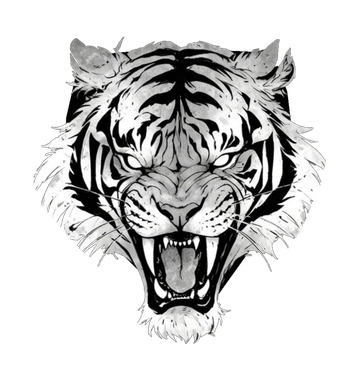
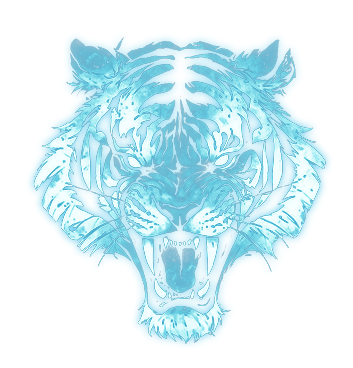
vfx-lab: Hổ Khiếu — đầu hổ đổi style năng lượng xanh lam phát sáng (cộng sáng) cho đồng bộ sóng xung kích
Claude-Session: https://claude.ai/code/session_014A94BHnyL4tu48AS77QbVM

diff --git a/src/vfx/skillFx.ts b/src/vfx/skillFx.ts
@@ -620,9 +620,9 @@ const hoKhieu: Fx = (s, aw) => {
   const R = aw ? 190 : 125;
   // 1) hư ảnh đầu hổ hiện trên đầu nhân vật: bung lên, rung khi gầm, rồi tan
   const top = pt(h.x, h.y - 105);                                  // cao hẳn trên đầu, không che nhân vật
-  const tg = sc.add.image(top.x, top.y + 12, TIGER_HEAD).setDepth(15).setAlpha(0).setScale(0.12);
+  const tg = sc.add.image(top.x, top.y + 12, TIGER_HEAD).setBlendMode(Phaser.BlendModes.ADD).setDepth(15).setAlpha(0).setScale(0.12);
   const S0 = aw ? 0.36 : 0.3;
-  sc.tweens.add({ targets: tg, alpha: 0.6, scale: S0, y: top.y, duration: 220, ease: 'Back.easeOut' });
+  sc.tweens.add({ targets: tg, alpha: 0.85, scale: S0, y: top.y, duration: 220, ease: 'Back.easeOut' });
   k.later(240, () => {
     sc.tweens.add({ targets: tg, scale: S0 * 1.12, duration: 70, yoyo: true, repeat: 2, ease: 'Sine.easeInOut' });   // gầm
     sc.tweens.add({ targets: tg, angle: { from: -3, to: 3 }, duration: 45, yoyo: true, repeat: 4 });

diff --git a/src/vfxlab/main.ts b/src/vfxlab/main.ts
@@ -37,7 +37,7 @@ class LabScene extends Phaser.Scene {
     this.load.spritesheet('hero', '/ui/hero_b_walk.png', { frameWidth: 52, frameHeight: 68 });
     this.load.image(QI_SWORD, '/vfx/qi_sword_light.png');
     for (const [key, f] of [[SHOCK_T3, 'shock_t3'], [SHOCK_T6, 'shock_t6']]) this.load.spritesheet(key, `/vfx/${f}.png?v=1`, { frameWidth: 256, frameHeight: 159 });
-    this.load.image(TIGER_HEAD, '/vfx/tiger_head.png?v=5');
+    this.load.image(TIGER_HEAD, '/vfx/tiger_head.png?v=6');
     this.load.image(ARROW_HEAD, '/vfx/arrow_head.png?v=1');
     for (const [n, key] of Object.entries(FIST_TEX)) this.load.image(key, `/vfx/fist_${n}.png?v=3`);
     for (const [n, key] of Object.entries(SPEAR_TEX)) this.load.image(key, `/vfx/spear_${n}.png?v=1`);

diff --git a/tools/art/tiger_fx.py b/tools/art/tiger_fx.py
@@ -78,8 +78,26 @@ def main():
     hp[..., :3] = (255, 248, 230)
     # (bỏ quầng sáng viền ngoài — tạo thành rìa giới hạn lộ rõ)
     canvas.alpha_composite(img, (pad, pad))
+    # ĐỔI STYLE giống sóng xung kích (mẫu video): ánh sáng năng lượng xanh lam trên nền đen, hoà trộn cộng sáng.
+    #   lông trắng → sáng xanh lam/trắng, mảng xám → xanh đậm mờ, nét mực đen → trong suốt (khe tối giữa các vệt sáng)
+    a = np.array(canvas).astype(float)
+    lum = a[..., :3].mean(2) / 255 * (a[..., 3] / 255)
+    t = np.clip((lum - 0.18) / 0.82, 0, 1) ** 1.25
+    stops = [(0.0, (8, 40, 60)), (0.35, (30, 120, 160)), (0.65, (90, 200, 220)), (0.85, (170, 240, 245)), (1.0, (245, 255, 255))]
+    col = np.zeros(t.shape + (3,))
+    for (x0, c0), (x1, c1) in zip(stops, stops[1:]):
+        m = (t >= x0) & (t <= x1)
+        k = ((t - x0) / (x1 - x0))[m][:, None]
+        col[m] = np.array(c0) * (1 - k) + np.array(c1) * k
+    alpha = np.clip(t * 1.15, 0, 1)
+    sharp = Image.fromarray(np.dstack([col, alpha * 255]).astype(np.uint8), 'RGBA')
+    glow = np.array(sharp.filter(ImageFilter.GaussianBlur(4))).astype(float)
+    glow[..., :3] = (60, 190, 230)
+    glow[..., 3] *= 0.9
+    canvas = Image.fromarray(glow.astype(np.uint8), 'RGBA')
+    canvas.alpha_composite(sharp)
     canvas.save(os.path.join(ROOT, 'public', 'vfx', 'tiger_head.png'))
-    pv = Image.new('RGBA', (canvas.width + 20, canvas.height + 20), (28, 26, 40, 255))
+    pv = Image.new('RGBA', (canvas.width + 20, canvas.height + 20), (16, 14, 26, 255))
     pv.alpha_composite(canvas, (10, 10))
     pv.save(os.path.join(OUT, 'tiger_fx_preview.png'))
     print('ok', canvas.size)
